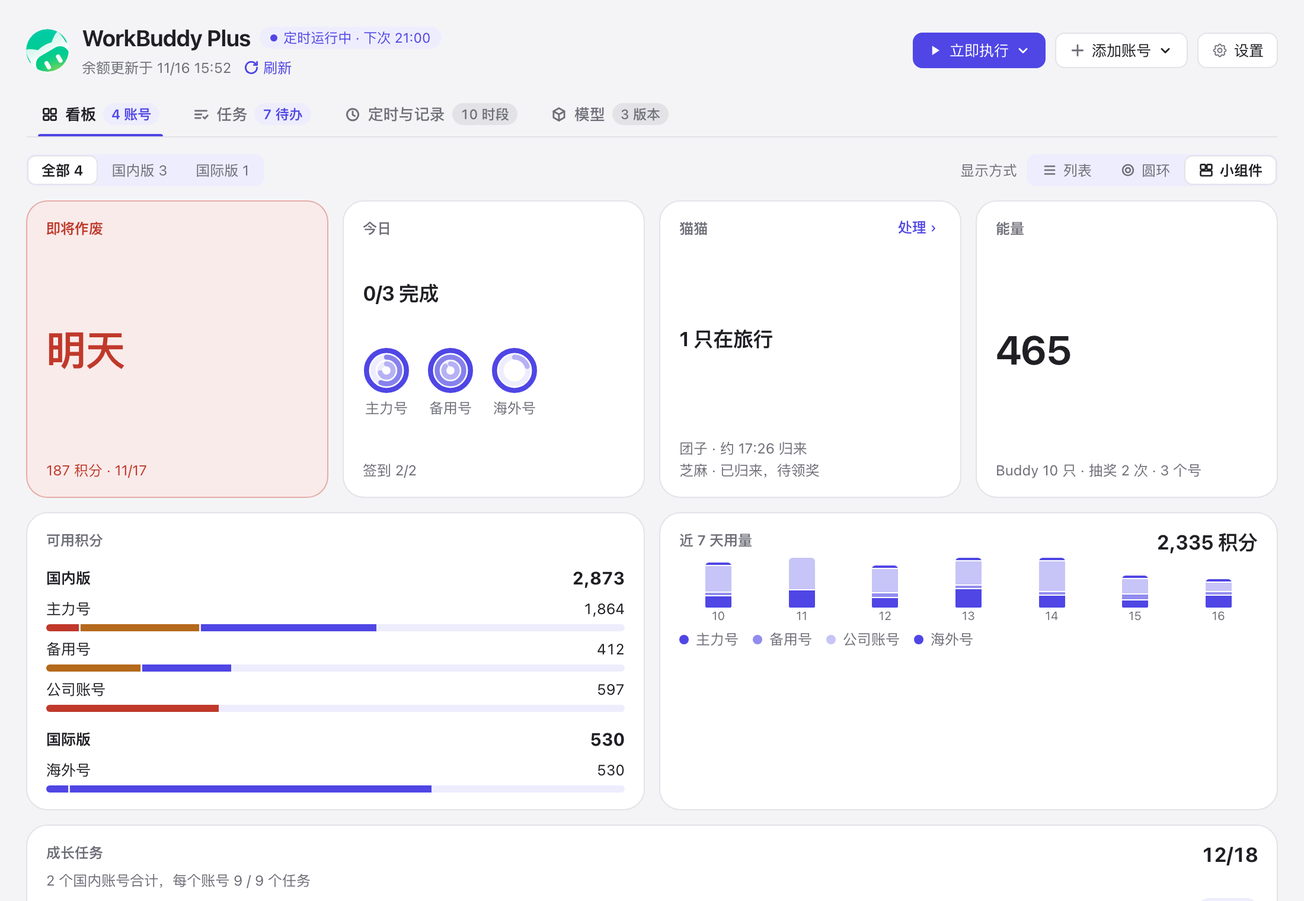
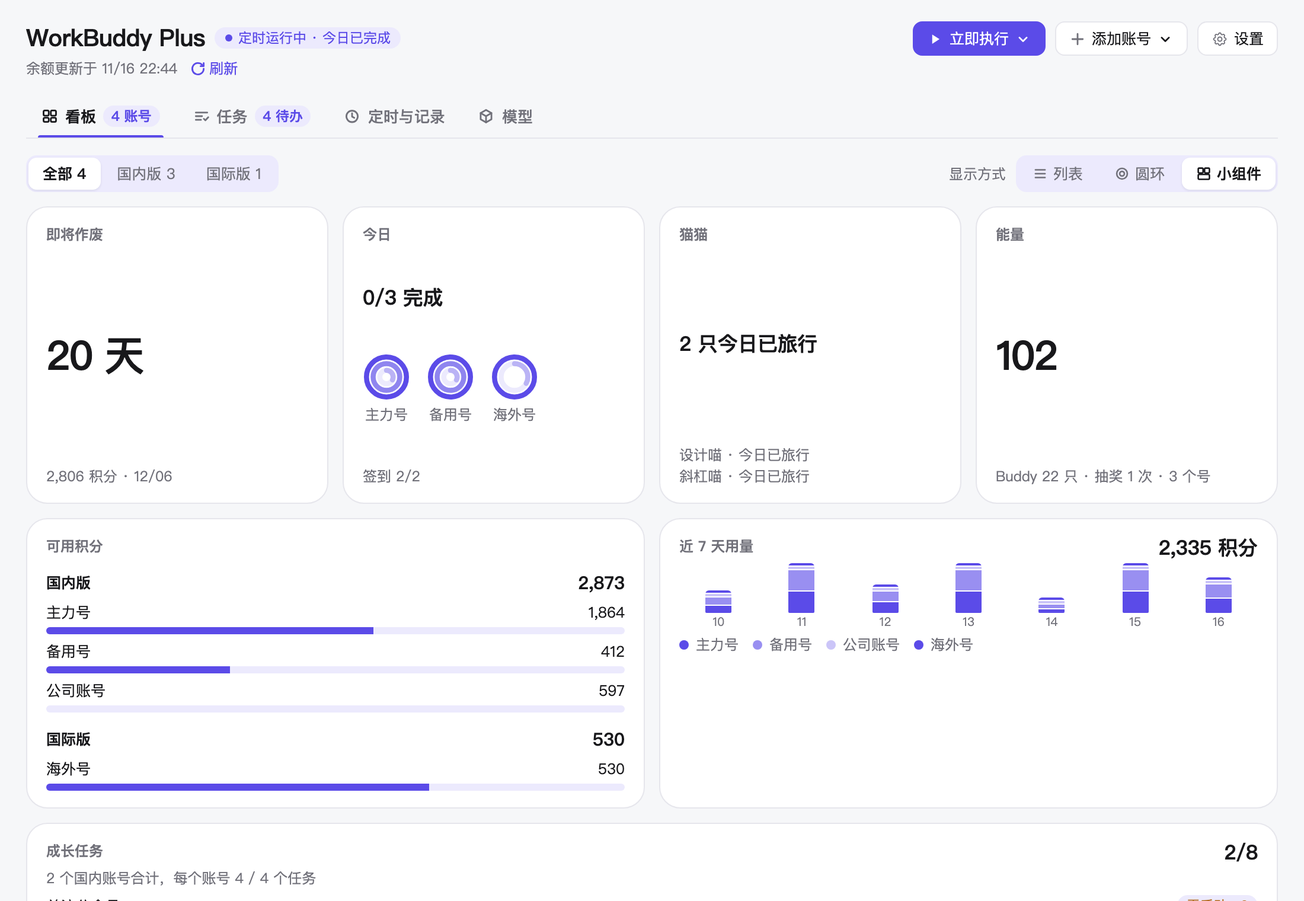
Release v0.7.1: restore the top bar, trim tab badges, align task rows
- header: title, balance status and schedule pill; run/add/settings on the title line
- tabs: underline style; board shows the account count, tasks only a badge while unfinished
- view switcher (list/rings/widgets) back on the realm-filter line
- China accounts: personal first, enterprise last
- campaign manual tasks no longer raise reminders; limits show reset and queue times
- task rows: status and source share a baseline and a fixed column
- refresh README screenshots and text

diff --git a/page/board.js b/page/board.js
@@ -28,7 +28,9 @@
   const boardViews = [["list", "列表"], ["rings", "圆环"], ["widgets", "小组件"]];
   const abroad = a => a.realm === "intl";
   let order = orderSaved.get() === "intl" ? "intl" : "cn", both = false;
-  const ordered = list => [...list].sort((a, b) => (abroad(a) === (order === "intl") ? 0 : 1) - (abroad(b) === (order === "intl") ? 0 : 1));
+  // Personal logins first, enterprise last inside each realm; the chosen realm leads.
+  const rank = a => (abroad(a) === (order === "intl") ? 0 : 2) + (a.enterprise ? 1 : 0);
+  const ordered = list => [...list].sort((a, b) => rank(a) - rank(b));
 
   // Migrate legacy wb-view values ("tasks" / "models") cleanly into wb-tab.
   const initRawView = savedView.get(), initRawTab = savedTab.get();
@@ -138,7 +140,7 @@
     return [...groups.values()].map(g => ({ ...g, count: g.accounts.size })).sort((x, y) => x.expires - y.expires);
   }
 
-  function segs(options, current, pick, label, withIcon) {
+  function segs(options, current, pick, label, withIcon, dataAttr) {
     const box = el("div", "wb-segs");
     box.setAttribute("role", "group");
     box.setAttribute("aria-label", label);
@@ -146,6 +148,7 @@
       const b = el("button", key === current ? "wb-seg-btn on" : "wb-seg-btn");
       b.type = "button";
       b.setAttribute("aria-pressed", String(key === current));
+      if (dataAttr) b.dataset[dataAttr] = key;
       if (withIcon?.[key]) b.append(icon(withIcon[key], 13));
       b.append(text);
       b.onclick = () => { if (key !== current) pick(key); };
@@ -282,14 +285,9 @@
         }
       }
       for (const c of a.campaigns || []) {
+        // Campaign manual tasks stay in the Tasks tab; they are not things this
+        // plugin can do, so they do not raise reminders here.
         if (c.error) items.push({ tone: "soon", text: `${a.name}：${c.label}读取失败`, aside: c.error, order: 0.5 });
-        for (const t of c.tasks || []) {
-          if (!t.manual || t.claimed || t.done) continue;
-          const title = `${c.label}：${t.label}`;
-          const e = manual.get(title) || { title, count: 0, credit: t.credit || 0, ends: Infinity };
-          e.count++;
-          manual.set(title, e);
-        }
       }
       for (const [part, message] of Object.entries(a.errors || {})) items.push({ tone: "urgent", text: `${a.name}：${parts[part] || part}读取失败`, aside: message, order: 0 });
       if (a.expires && a.expires - now < DAY) items.push({ tone: "urgent", text: `${a.name} 的登录${a.expires <= now ? "已过期" : `${left(a.expires, now)}过期`}`, aside: "点「添加账号」用同一账号重新登录", order: 0 });
@@ -344,7 +342,7 @@
     strip.setAttribute("aria-label", "提醒摘要");
     const bar = el("div", "wb-alert-bar"), chips = el("div", "wb-alert-chips");
     const headline = urgent.length ? `需处理 ${urgent.length} 件` : limited.length ? `限额/排队 ${limited.length} 项` : `提醒 ${rest.length} 件`;
-    chips.append(el("span", "wb-alert-mark", headline), el("span", "wb-alert-preview", [...urgent, ...limited, ...rest].slice(0, 2).map(i => i.text).join(" · ")));
+    chips.append(el("span", "wb-alert-mark", headline), el("span", "wb-alert-preview", [...urgent, ...limited, ...rest].slice(0, 2).map(i => i.aside ? `${i.text} · ${i.aside}` : i.text).join(" · ")));
     const toggle = el("button", "wb-alert-toggle", alertsOpen ? "收起 ▴" : `展开全部 ${items.length} 条 ↓`);
     toggle.type = "button";
     toggle.setAttribute("aria-expanded", String(alertsOpen));
@@ -955,7 +953,7 @@
     const titleWrap = el("span", "wb-task-title");
     titleWrap.append(el("span", "wb-name", task.title));
     if (showAccount) titleWrap.append(el("span", "wb-pill outline", account.name));
-    const head = line(titleWrap, el("span", `wb-pill ${state[1]}`, task.state === "locked" && task.unlockAt > now ? `${when(task.unlockAt)} 解锁` : state[0]));
+    const pill = el("span", `wb-pill ${state[1]}`, task.state === "locked" && task.unlockAt > now ? `${when(task.unlockAt)} 解锁` : state[0]);
     const meta = el("div", "wb-task-meta");
     const facts = [
       task.target ? `${task.current}/${task.target}` : "",
@@ -972,8 +970,8 @@
       meta.append(track);
     }
     meta.append(el("span", "wb-sub", facts.join(" · ")));
-    main.append(head, meta);
-    row.append(main);
+    main.append(titleWrap, meta);
+    row.append(main, pill);
     if (task.code && hooks.onTask && (task.state === "auto" || task.state === "claimable")) {
       const run = el("button", `wb-task-run${task.state === "claimable" ? " claim" : ""}`, task.state === "claimable" ? "领奖" : "执行");
       run.type = "button";
@@ -1114,8 +1112,8 @@
             if (t.claimed) continue;
             const row = el("div", "wb-task"), main = el("div", "wb-task-main");
             const [lbl, cls] = t.done ? ["可领奖", "ok"] : t.manual ? ["需手动", "warn"] : ["定时会完成", "go"];
-            main.append(line(el("span", "wb-name", `${c.label} · ${t.label}`), el("span", `wb-pill ${cls}`, lbl)), el("div", "wb-sub", [`${a.name}`, `${t.progress}/${t.target}`, t.credit ? `+${num(t.credit)} 积分` : ""].filter(Boolean).join(" · ")));
-            row.append(main);
+            main.append(el("div", "wb-name", `${c.label} · ${t.label}`), el("div", "wb-sub", [`${a.name}`, `${t.progress}/${t.target}`, t.credit ? `+${num(t.credit)} 积分` : ""].filter(Boolean).join(" · ")));
+            row.append(main, el("span", `wb-pill ${cls}`, lbl));
             if (!t.manual && hooks.onRunAction) {
               const btn = el("button", `wb-task-run${t.done ? " claim" : ""}`, t.done ? "领奖" : "执行");
               btn.type = "button";
@@ -1135,20 +1133,20 @@
     return box;
   }
 
-  // Primary navigation bar with count badges.
+  // Primary navigation tabs; only 看板 carries an account count, and 任务 shows
+  // a badge only while something is unfinished.
   function navBar(rows, view, now) {
     const nav = el("nav", "wb-nav");
     nav.setAttribute("aria-label", "主导航");
     const openCount = taskBadgeCount(rows, now);
-    const slotCount = view?.today?.slots?.length || 0;
-    const modelRealms = realms.filter(([k]) => k !== "ent" || view?.models?.ent).length;
-    const badges = { board: `${rows.length} 账号`, tasks: `${openCount} 待办`, schedule: `${slotCount} 时段`, models: `${modelRealms} 版本` };
+    const badges = { board: `${rows.length} 账号`, tasks: openCount ? `${openCount} 待办` : "" };
     for (const [key, label] of tabs) {
       const b = el("button", `wb-nav-tab${key === tab ? " active" : ""}`);
       b.type = "button";
       b.dataset.tab = key;
       b.setAttribute("aria-current", key === tab ? "page" : "false");
-      b.append(icon(tabIcons[key], 14), el("span", undefined, label), el("span", `wb-nav-badge${key === "tasks" && openCount > 0 ? " hot" : ""}`, badges[key]));
+      b.append(icon(tabIcons[key], 14), el("span", undefined, label));
+      if (badges[key]) b.append(el("span", `wb-nav-badge${key === "tasks" ? " hot" : ""}`, badges[key]));
       b.onclick = () => { if (key !== tab) goTab(key); };
       nav.append(b);
     }

diff --git a/page/board.css b/page/board.css
@@ -42,7 +42,7 @@
 .wb-alert-row.plain{--tone:var(--wb-muted)}
 .wb-alert-row::before{content:"";width:5px;height:5px;border-radius:50%;background:var(--tone);margin-top:.58em}
 .wb-alert-text{min-width:0;overflow-wrap:anywhere}
-.wb-alert-aside{min-width:0;font-size:11.5px;color:var(--wb-muted);font-variant-numeric:tabular-nums;overflow-wrap:anywhere}
+.wb-alert-aside{min-width:0;font-size:11.5px;color:var(--wb-muted);font-variant-numeric:tabular-nums;overflow-wrap:anywhere;justify-self:end;text-align:right}
 .wb-alert-more{border-top:1px solid var(--wb-line);padding:9px 0 0}
 .wb-alert-more-head{all:unset;box-sizing:border-box;display:flex;align-items:center;gap:12px;width:100%;padding:2px 0 6px;font-size:12px;color:var(--wb-muted);cursor:pointer;list-style:none}
 .wb-alert-more-head::-webkit-details-marker{display:none}
@@ -113,10 +113,10 @@
 .wb-legend{font-size:11.5px;color:var(--wb-muted);margin:8px 2px 0}
 
 /* Segmented controls */
-.wb-segs{display:inline-flex;gap:2px;padding:2px;border-radius:8px;background:var(--wb-soft);max-width:100%;overflow-x:auto;scrollbar-width:none}
-.wb-seg-btn{all:unset;box-sizing:border-box;display:inline-flex;align-items:center;gap:5px;padding:3px 11px;border-radius:6px;font-size:12px;color:var(--wb-muted);white-space:nowrap;cursor:pointer;transition:background-color 120ms ease-out,color 120ms ease-out}
+.wb-segs{display:inline-flex;gap:2px;padding:2px;border-radius:9px;background:var(--wb-soft);max-width:100%;overflow-x:auto;scrollbar-width:none}
+.wb-seg-btn{all:unset;box-sizing:border-box;display:inline-flex;align-items:center;gap:5px;padding:5px 12px;border-radius:7px;font-size:12.5px;color:var(--wb-muted);white-space:nowrap;cursor:pointer;transition:background-color 120ms ease-out,color 120ms ease-out}
 .wb-seg-btn:hover{color:inherit}.wb-seg-btn:focus-visible{outline:2px solid var(--wb-accent);outline-offset:-2px}
-.wb-seg-btn.on{background:var(--wb-card);color:inherit;font-weight:600;box-shadow:0 0 0 1px var(--wb-line)}
+.wb-seg-btn.on{background:var(--wb-card);color:inherit;font-weight:600;box-shadow:0 1px 2px rgba(15,23,42,.08)}
 .wb-enter{animation:wb-enter 220ms cubic-bezier(.2,.8,.2,1)}
 @keyframes wb-enter{from{opacity:0;transform:translateY(4px)}}
 
@@ -276,7 +276,7 @@
 .wb-task-cards-single{grid-template-columns:1fr}
 .wb-task-card{background:var(--wb-card);border:1px solid var(--wb-line);border-radius:12px;padding:12px 14px;display:flex;flex-direction:column;gap:4px;min-width:0}
 .wb-task-card>strong{font-weight:600;overflow:hidden;text-overflow:ellipsis;white-space:nowrap}
-.wb-task{border-top:1px solid var(--wb-line);padding:8px 0 6px;display:flex;align-items:center;gap:10px;min-width:0}
+.wb-task{border-top:1px solid var(--wb-line);padding:8px 0 6px;display:flex;align-items:baseline;gap:10px;min-width:0}
 .wb-task-card>.wb-line+.wb-task,.wb-task-card>.wb-sub+.wb-task{border-top:none}
 .wb-task-main{display:flex;flex-direction:column;gap:4px;min-width:0;flex:1}
 .wb-task-title{display:inline-flex;align-items:center;gap:6px;min-width:0;flex-wrap:wrap}
@@ -284,13 +284,13 @@
 .wb-mini-bar{width:54px;height:5px;border-radius:999px;background:var(--wb-soft);overflow:hidden;flex:none}
 .wb-mini-bar span{display:block;height:100%;border-radius:999px;background:var(--wb-go)}
 .wb-mini-bar span.ok{background:var(--wb-accent)}
-.wb-task-run{flex:none;font:inherit;font-size:12px;padding:4px 11px;border-radius:7px;border:1px solid var(--wb-accent);background:transparent;color:var(--wb-accent);cursor:pointer}
+.wb-task-run{flex:none;width:64px;font:inherit;font-size:12px;padding:4px 0;border-radius:7px;border:1px solid var(--wb-accent);background:transparent;color:var(--wb-accent);cursor:pointer;text-align:center}
 .wb-task-run:hover{background:var(--wb-soft)}
 .wb-task-run.claim{background:var(--wb-accent);color:#fff;font-weight:600}
 .wb-task-run.claim:hover{filter:brightness(1.06);background:var(--wb-accent)}
 .wb-task-run:disabled{opacity:.55;cursor:default}
 .wb-task-run:focus-visible{outline:2px solid var(--wb-accent);outline-offset:2px}
-.wb-task-why{flex:none;white-space:nowrap}
+.wb-task-why{flex:none;white-space:nowrap;width:64px;text-align:right;font-size:11.5px}
 .wb-task-done{font-size:12px;color:var(--wb-muted);padding:4px 0}
 .wb-companions{display:grid;grid-template-columns:repeat(auto-fit,minmax(300px,1fr));gap:12px;margin-top:12px}
 
@@ -326,7 +326,7 @@
 @media (max-width:640px){
   .wb-b-top{grid-template-columns:1fr}
   .wb-alert-bar{flex-direction:column;gap:5px}.wb-alert-toggle{align-self:flex-end}
-  .wb-alert-row{grid-template-columns:5px minmax(0,1fr)}.wb-alert-aside{grid-column:2;max-width:none;text-align:left;white-space:normal}
+  .wb-alert-row{grid-template-columns:5px minmax(0,1fr)}.wb-alert-aside{grid-column:2;max-width:none;text-align:left;white-space:normal;justify-self:stretch}
   .wb-widgets{grid-template-columns:repeat(2,minmax(0,1fr))}.wb-w-m{grid-column:1/-1}
   .wb-kpis{grid-template-columns:repeat(2,minmax(0,1fr))}
   .wb-row{grid-template-columns:30px minmax(0,1fr) 94px 14px}.wb-row .wb-money{grid-column:2/4;grid-row:2}

diff --git a/page/index.html b/page/index.html
@@ -7,17 +7,9 @@
 </head>
 <body class="wb-board">
   <header>
-    <div class="brand">
-      <div class="brand-mark" aria-hidden="true">
-        <img src="icon.svg" alt="">
-      </div>
-      <div class="brand-text">
-        <div class="brand-title">
-          <h1>WorkBuddy Plus</h1>
-          <button type="button" class="sched-pill" id="sched-pill" title="查看今日定时与执行记录" hidden></button>
-        </div>
-        <p class="muted"><span id="state">读取中…</span><button type="button" class="inline" data-action="refresh"><svg viewBox="0 0 16 16" aria-hidden="true"><path d="M13.5 8a5.5 5.5 0 1 1-1.6-3.9M13.5 2.5v3h-3"/></svg>刷新</button></p>
-      </div>
+    <div>
+      <div class="brand-title"><h1>WorkBuddy Plus</h1><button type="button" class="sched-pill" id="sched-pill" title="查看今日定时与执行记录" hidden></button></div>
+      <p class="muted"><span id="state">读取中…</span><button type="button" class="inline" data-action="refresh"><svg viewBox="0 0 16 16" aria-hidden="true"><path d="M13.5 8a5.5 5.5 0 1 1-1.6-3.9M13.5 2.5v3h-3"/></svg>刷新</button></p>
     </div>
     <div class="header-actions">
       <details class="run-menu" id="run-menu"><summary><svg viewBox="0 0 16 16" aria-hidden="true"><path d="M5 3.5v9l7-4.5z"/></svg>立即执行<svg class="chev" viewBox="0 0 16 16" aria-hidden="true"><path d="M4.5 6.5 8 10l3.5-3.5"/></svg></summary>

diff --git a/page/style.css b/page/style.css
@@ -1,12 +1,12 @@
 body{margin:0;padding:18px 22px 26px}
 [hidden]{display:none!important}
-header{display:flex;justify-content:space-between;align-items:center;gap:14px;flex-wrap:wrap;margin-bottom:12px}
+header{display:flex;justify-content:space-between;align-items:flex-start;gap:14px;flex-wrap:wrap;margin-bottom:14px}
 .brand{display:flex;align-items:center;gap:11px;min-width:0}
 .brand-mark{width:36px;height:36px;flex:none;display:grid;place-items:center}
 .brand-mark img{width:100%;height:100%;display:block}
 .brand-text{min-width:0}
 .brand-title{display:flex;align-items:center;gap:8px;flex-wrap:wrap}
-h1{font-size:19px;font-weight:650;letter-spacing:-.02em;margin:0}
+h1{font-size:20px;font-weight:650;letter-spacing:-.02em;margin:0}
 h2{font-size:13px;font-weight:600;margin:18px 2px 8px}
 .muted{color:var(--wb-muted);font-size:12px;margin:0}
 .sched-pill{all:unset;box-sizing:border-box;display:inline-flex;align-items:center;gap:5px;padding:1px 9px;border-radius:999px;font-size:11.5px;background:var(--wb-soft);color:var(--wb-accent);cursor:pointer;white-space:nowrap}

diff --git a/public/app.js b/public/app.js
@@ -46,7 +46,7 @@ async function refresh() {
   $("cn-state").textContent = `· 定时${current.config.enabled ? "已开启" : "已暂停"}`;
   $("intl-state").textContent = `· 定时${current.config.intlEnabled ? "已开启" : "已暂停"}`;
   $("accounts").replaceChildren();
-  const accounts = [...current.accounts].sort((a, b) => Number(a.realm === "intl") - Number(b.realm === "intl"));
+  const rank = a => (a.realm === "intl" ? 2 : 0) + (a.enterprise ? 1 : 0), accounts = [...current.accounts].sort((a, b) => rank(a) - rank(b));
   for (const account of accounts) {
     const row = element("div", undefined, account.realm === "intl" ? "account intl" : "account"), checkbox = element("input");
     checkbox.type = "checkbox"; checkbox.checked = selected.has(account.id); checkbox.disabled = !account.enabled;

diff --git a/README.en.md b/README.en.md
@@ -158,14 +158,14 @@ To see the UI, jump to [Screenshots](#screenshots); for exact times see [Default
 - Model limits (「模型限额」): besides credits, each model has its own 24-hour allowance on each account; once it's spent, the model is refused (HTTP 429, code 6004) until it resets, and a model short of capacity answers 429 too (code 6020) with a queue position. WorkBuddy doesn't say how much is left, and the board sends no probe. Only a real chat that is refused is recorded: 6004 keeps its reset time, 6020 its queue position and wait, and spent models show under 「近 7 天用量」 in the account's detail and in the yellow 「模型额度用完」 box at the bottom. China's plugin sends no chat request of its own, so China's accounts show no such records; WorkBuddy AI's web conversation records one only when it is actually refused.
 - Model queues (「排队中」): when a model is short of capacity, WorkBuddy queues requests and answers HTTP 429 too (code 6020, with the queue position and estimated wait), **enterprise accounts included**, however much allowance they have. Tools like Magpie retry a few times and then report `exceeded retry limit, last status: 429`. The check above records the position and when the wait should be over, shows it in the account's detail and the same yellow box, and drops it once that time passes; a queued model is checked again at most hourly.
 - An account's 「成长」 (energy, Buddies, the next streak tier and open tasks) starts folded; click 「任务 x/y ▾」 to open it.
-- An account's 「活动」 lists the running campaigns, each task's progress and claim state; manual items such as inviting friends also appear in the alerts below.
+- An account's 「活动」 lists the running campaigns, each task's progress and claim state; manual items such as inviting friends are listed in the Tasks tab only and no longer raise reminders.
 - A package is counted grant by grant: every reward in 「国内运营裂变包」, for one, is its own grant with its own 20 days, so only the grants about to lapse turn red and count as lapsing, never the whole package.
-- List (「列表」): a group each for China and WorkBuddy AI. A group's header gives its credits and accounts (separate wallets, never added together), and under it a line of what its accounts need today: today's progress, growth tasks and 7-day use for China, the daily reward and 7-day use for WorkBuddy AI. The lower group's header has 「移到上面」 (move up), which swaps the two and is remembered, the rings and widgets following. One row per account, folded until opened (credit bar coloured by each grant's own lapse date, today's rings, a 7-day trend); open a row for packages, usage, tasks and travel.
+- List (「列表」): a group each for China and WorkBuddy AI. A group's header gives its credits and accounts (separate wallets, never added together), and under it a line of what its accounts need today: today's progress, growth tasks and 7-day use for China, the daily reward and 7-day use for WorkBuddy AI. The lower group's header has 「移到上面」 (move up), which swaps the two and is remembered, the rings and widgets following. Personal logins come first and an enterprise login last inside a group. One row per account, folded until opened (credit bar coloured by each grant's own lapse date, today's rings, a 7-day trend); open a row for packages, usage, tasks and travel.
 - Tasks (「任务」): every open China growth task for each personal account in one place, marked claimable, scheduled, manual or locked. Each task that can be automated has 「执行」 (run) or 「领奖」 (claim), which runs only that task and leaves the account's other tasks alone. 「执行全部待办」 (run every pending task) hands the accounts with automatable work to the background job queue, serial within each account. WorkBuddy AI's client-only tasks are not listed.
 - Rings (「圆环」): one account at a time with today's rings (activity, travel, tasks), a credit lapse timeline and usage.
 - Widgets (「小组件」): one fact per tile across all accounts: next lapse, today, Buddies, energy, credits (a subtotal each for China and WorkBuddy AI), 7-day usage, growth tasks.
 - Models (「模型」): switch between China (「国内版」) and WorkBuddy AI (「国际版」); with an enterprise account added, an 「企业」 tab comes first with the models that account may use (set by its enterprise, not the personal list), and without one it isn't shown. Models the current plan can use come first; WorkBuddy AI's Pro-only models are dimmed below. Each row has the model id (click to copy), reasoning levels, context and multiplier. Reasoning levels are each model's native ones from WorkBuddy's config (such as `low high max`), the default in bold, 「可关」 when thinking can be switched off, 「固定」 when there is only one, 「—」 when none are listed; multipliers of 3 or more are orange, and limited-time free, night discounts and subscriber priority follow WorkBuddy's own labels. WorkBuddy AI needs a `workbuddy-ai` sign-in in Magpie.
-- At the bottom, today's schedule (「今日定时」) shows each slot's result and the next run; below it, the alert footer groups spent/queued models, logins about to expire, failed reads, credits lapsing within 2 days and network/proxy pauses by reason. Everything else (credit lapsing within 10 days, enterprise allowance resets, check-in notes) stays folded under 「其他提醒」 until opened.
+- At the bottom, today's schedule (「今日定时」) shows each slot's result and the next run; below it, the alert footer groups spent models (with their reset time) and queued models (with the estimated wait), logins about to expire, failed reads, credits lapsing within 2 days and network/proxy pauses by reason. Everything else (credit lapsing within 10 days, enterprise allowance resets, check-in notes) stays folded under 「其他提醒」 until opened.
 - Each personal account shows today's daily check-in: for China, Magpie's record (checked in +100, not yet, needs the WorkBuddy client…), with a switched-off or missed check-in in the alerts; for WorkBuddy AI, this plugin's own result, or 「暂无签到活动」 (no campaign) while none runs. Enterprise accounts have no daily check-in credits and show none. WorkBuddy AI accounts are tagged 「国际版」 in the list.
 - Enterprise accounts show their monthly allowance, usage and reset time.
 
@@ -176,7 +176,7 @@ To see the UI, jump to [Screenshots](#screenshots); for exact times see [Default
 
 **Entry points**
 
-- Magpie's sidebar page: 「添加账号」 (add account, China or WorkBuddy AI) at the top right; 「刷新」 (refresh) beside the update time; in the board's 「今日定时」, a China row and a WorkBuddy AI row, each with a switch that pauses or starts that build's schedule (it only stops schedules; manual runs still work); and 「立即执行」 (run now) beside the run history, with 「执行所有任务」 (everything), 「猫猫旅行」 (Buddy travel), 「成长任务」 (growth tasks) and 「补领奖励」 (claim only). 「设置」 at the top right opens a settings view of its own in four groups: 「定时」, each build's times and the random offset; 「国际版」, the web conversation's switch and model; 「任务」, whether skill sharing runs automatically; 「网络与时区」, the time zone and the proxy (for setups such as Docker where the local panel can't be reached).
+- Magpie's sidebar page: 「添加账号」 (add account, China or WorkBuddy AI) at the top right; 「刷新」 (refresh) beside the update time; four tabs across the top — Board (with the account count), Tasks (a badge only while something is unfinished), Schedule &amp; Logs and Models, with the view switcher (List / Rings / Widgets) on the same line as the realm filter; in the board's 「今日定时」, a China row and a WorkBuddy AI row, each with a switch that pauses or starts that build's schedule (it only stops schedules; manual runs still work); and 「立即执行」 (run now) beside the run history, with 「执行所有任务」 (everything), 「猫猫旅行」 (Buddy travel), 「成长任务」 (growth tasks) and 「补领奖励」 (claim only). 「设置」 at the top right opens a settings view of its own in four groups: 「定时」, each build's times and the random offset; 「国际版」, the web conversation's switch and model; 「任务」, whether skill sharing runs automatically; 「网络与时区」, the time zone and the proxy (for setups such as Docker where the local panel can't be reached).
 - The local panel at http://127.0.0.1:3439 (local access only, so not from outside when Magpie runs in Docker): the same board, plus running selected accounts, the last 100 runs, and editing schedules and the proxy.
 - Add account (「添加账号」) offers China or WorkBuddy AI and runs Magpie's own `magpie plugin login workbuddy` or `magpie plugin login workbuddy-ai`, which opens the official browser sign-in; signing in to an account again replaces its old login. This plugin never touches login tokens and offers no account file import or export.
 

diff --git a/README.md b/README.md
@@ -156,14 +156,14 @@ flowchart LR
 - 「模型限额」：除了积分，每个模型在每个账号上还有自己的 24 小时额度，用完后这个模型会被拒绝（HTTP 429，code 6004），到点恢复；算力不足时也会回 429（code 6020）并给出排队位置。官方不提供剩余额度的查询，本插件也不主动发探测请求。只有真实的聊天请求被拒时，才把结果记下来：6004 记下恢复时间，6020 记下排队位置和预计时间，显示在账号详情「近 7 天用量」下面和底部黄色的「模型额度用完」框里。国内版插件本身不发聊天请求，所以国内账号不会出现这类记录；国际版网页会话真实撞上时会记录。
 - 「模型排队」：模型算力不够时，官方会让请求排队，同样回 HTTP 429（code 6020，带排队位置和预计等待时间），**企业账号也一样**，额度再多也会被挡住。Magpie 等工具遇到这种情况会重试几次后报 `exceeded retry limit, last status: 429`。上面的探测遇到排队时会记下位置和预计排到的时间，显示在账号详情和同一个黄色框里（「排队中」），到预计时间后自动消失；排队的模型每小时最多再查一次。
 - 账号详情里的「成长」（能量、Buddy、连登档位和未完成的任务）默认收起，点「任务 x/y ▾」展开。
-- 账号详情里的「活动」显示当前活动、每项进度和领取状态；邀请好友等手动项也会出现在下面的提醒里。
+- 账号详情里的「活动」显示当前活动、每项进度和领取状态；邀请好友等手动项只在「任务」页列出，不再进提醒。
 - 同名积分包按每一笔的作废时间计算：例如「国内运营裂变包」每次奖励都是单独一笔，各有 20 天期限，只有快到期的那几笔会标红、计入「将作废」，不会把整包都算成今天作废。
-- 「列表」：国内版、国际版各一组。组页眉写这组的积分合计和账号数（两边的积分是各自的钱包，不加在一起），下面一行小字写这组今天要关心的事：国内版是今日完成、成长进度、近 7 天消耗，国际版是每日奖励到没到、近 7 天消耗。第二组页眉上有「移到上面」，点了两组对调并记住，圆环和小组件也跟着排。组里每个账号一行，默认收起（积分条按每笔积分各自的作废时间着色、今日圆环、7 天走势），点开看积分包、用量、任务和旅行详情。
+- 「列表」：国内版、国际版各一组。组页眉写这组的积分合计和账号数（两边的积分是各自的钱包，不加在一起），下面一行小字写这组今天要关心的事：国内版是今日完成、成长进度、近 7 天消耗，国际版是每日奖励到没到、近 7 天消耗。第二组页眉上有「移到上面」，点了两组对调并记住，圆环和小组件也跟着排。组里个人账号排在前面、企业账号排在最后。组里每个账号一行，默认收起（积分条按每笔积分各自的作废时间着色、今日圆环、7 天走势），点开看积分包、用量、任务和旅行详情。
 - 「任务」：把国内版个人账号的未完成成长任务集中列出，按账号分组，标出可领奖、定时会完成、需手动和未解锁；可自动执行的每一项都有「执行」或「领奖」按钮，只跑这一项，不改动同账号的其他任务。顶部「执行全部待办」把有可自动任务的账号交给后台作业排队，账号内串行执行。国际版任务按客户端实际使用计入，不在这里列出。
 - 「圆环」：一次看一个账号的今日圆环（活跃、旅行、任务）、积分作废时间线和用量。
 - 「小组件」：按一件事一块汇总所有账号：即将作废、今日、猫猫、能量、可用积分（国内、国际各一个小计）、近 7 天用量、成长任务。
 - 「模型」：切换国内版 / 国际版；添加了企业账号时最前面多一个「企业」，列出企业账号自己能用的模型（由企业配置决定，和个人账号不同），没有企业账号就不显示。先列当前计划能用的模型，再把国际版 Pro-only 模型变灰收在下面；每行有模型 ID（点一下复制）、推理档位、上下文和倍率。推理档位是官方配置里每个模型的原生档位（如 `low high max`），加粗的是默认档，「可关」表示可以关闭思考，「固定」表示只有一档，「—」表示官方没有列出；倍率 3 以上标橙色，限时免费、夜间折扣和订阅优先按官方标注。国际版需要在 Magpie 登录 WorkBuddy AI（`workbuddy-ai`）。
-- 底部「今日定时」列出每个时段的结果和下一次执行；再往下是提醒区：模型额度用完/排队、登录将过期、读取失败、2 天内作废的积分、网络/代理暂停按原因分组列出；其他（10 天内作废的积分、企业额度重置、签到提醒）收在「其他提醒」里，默认收起。
+- 底部「今日定时」列出每个时段的结果和下一次执行；再往下是提醒区：模型额度用完（写明恢复时间）/排队（写明预计排到时间）、登录将过期、读取失败、2 天内作废的积分、网络/代理暂停按原因分组列出；其他（10 天内作废的积分、企业额度重置、签到提醒）收在「其他提醒」里，默认收起。
 - 每个个人账号显示当天的每日签到结果：国内版读 Magpie 的记录（已签到 +100、未签到、需在客户端签到等），签到未开启或没签上时列入提醒；国际版显示本插件的签到结果，没有签到活动时显示「暂无签到活动」。企业账号没有每日签到积分，不显示。国际版账号在列表里标「国际版」。
 - 企业账号显示每月额度、已用和重置时间。
 
@@ -174,7 +174,7 @@ flowchart LR
 
 **入口**
 
-- Magpie 侧栏页面：右上角「添加账号」（国内版或国际版）；「余额更新于」后面的「刷新」；看板里「今日定时」分国内版、国际版两排，每排右边的开关暂停或开启那一边的定时（只停定时，手动执行照样能用）；「执行记录」右边的「立即执行」菜单里有「执行所有任务」「猫猫旅行」「成长任务」「补领奖励」。右上角「设置」打开单独的设置页，分「定时」「国际版」「任务」「网络与时区」四组：两边各自的执行时段和随机错开；国际版网页会话的开关和模型；是否自动分享技能；时区和代理（Docker 等部署打不开本机面板时在这里改）。
+- Magpie 侧栏页面：右上角「添加账号」（国内版或国际版）；「余额更新于」后面的「刷新」；顶部四个标签：看板（标账号数）、任务（有未完成时才标待办数）、定时与记录、模型，显示方式（列表 / 圆环 / 小组件）与版本筛选同一行；看板里「今日定时」分国内版、国际版两排，每排右边的开关暂停或开启那一边的定时（只停定时，手动执行照样能用）；「执行记录」右边的「立即执行」菜单里有「执行所有任务」「猫猫旅行」「成长任务」「补领奖励」。右上角「设置」打开单独的设置页，分「定时」「国际版」「任务」「网络与时区」四组：两边各自的执行时段和随机错开；国际版网页会话的开关和模型；是否自动分享技能；时区和代理（Docker 等部署打不开本机面板时在这里改）。
 - 本机面板 http://127.0.0.1:3439（只接受本机访问，Magpie 跑在 Docker 里时从外面打不开）：同样的看板，加上选择账号执行、最近 100 次记录、调整时段与代理。
 - 「添加账号」分国内版、国际版，分别执行 Magpie 自带的 `magpie plugin login workbuddy` 或 `magpie plugin login workbuddy-ai`，打开官方浏览器登录；同一账号重新登录会替换原来的登录。本插件不接触登录令牌，也不提供账号文件导入导出。
 
